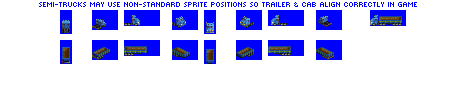
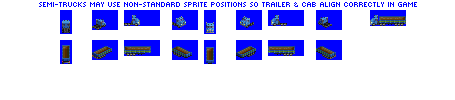
Change: improved Yeoman open truck (7/8 trailer)

diff --git a/src/vehicles/yeoman.py b/src/vehicles/yeoman.py
@@ -19,7 +19,7 @@ consist.add_unit(OpenHauler(consist = consist,
 consist.add_unit(OpenHauler(consist = consist,
                         weight = 5,
                         capacity = 40,
-                        vehicle_length = 6,
+                        vehicle_length = 7,
                         spriterow_num = 1))
 
 consist.add_model_variant(intro_date=0,
